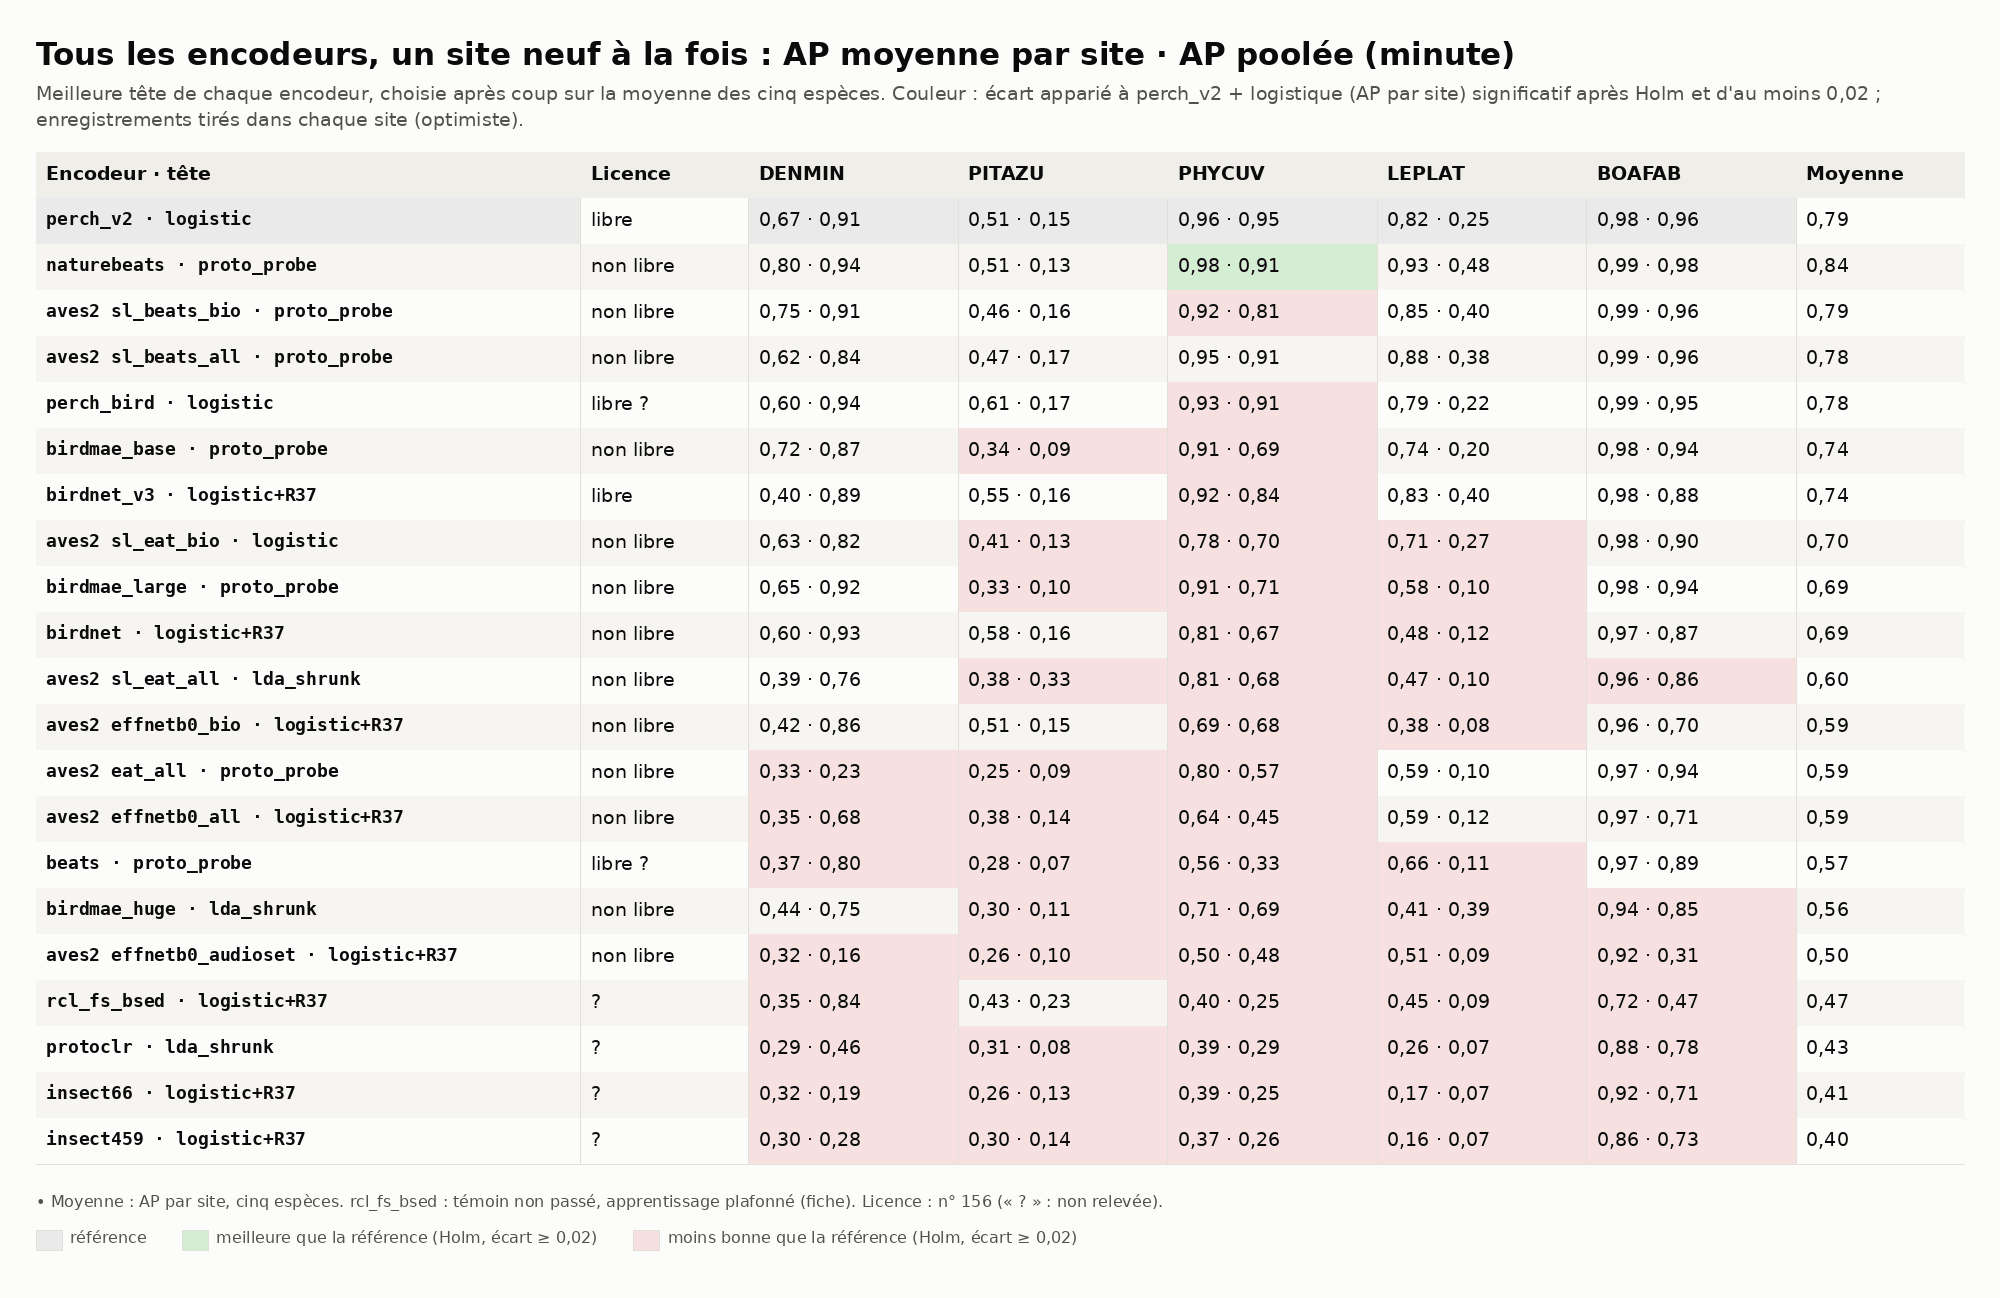
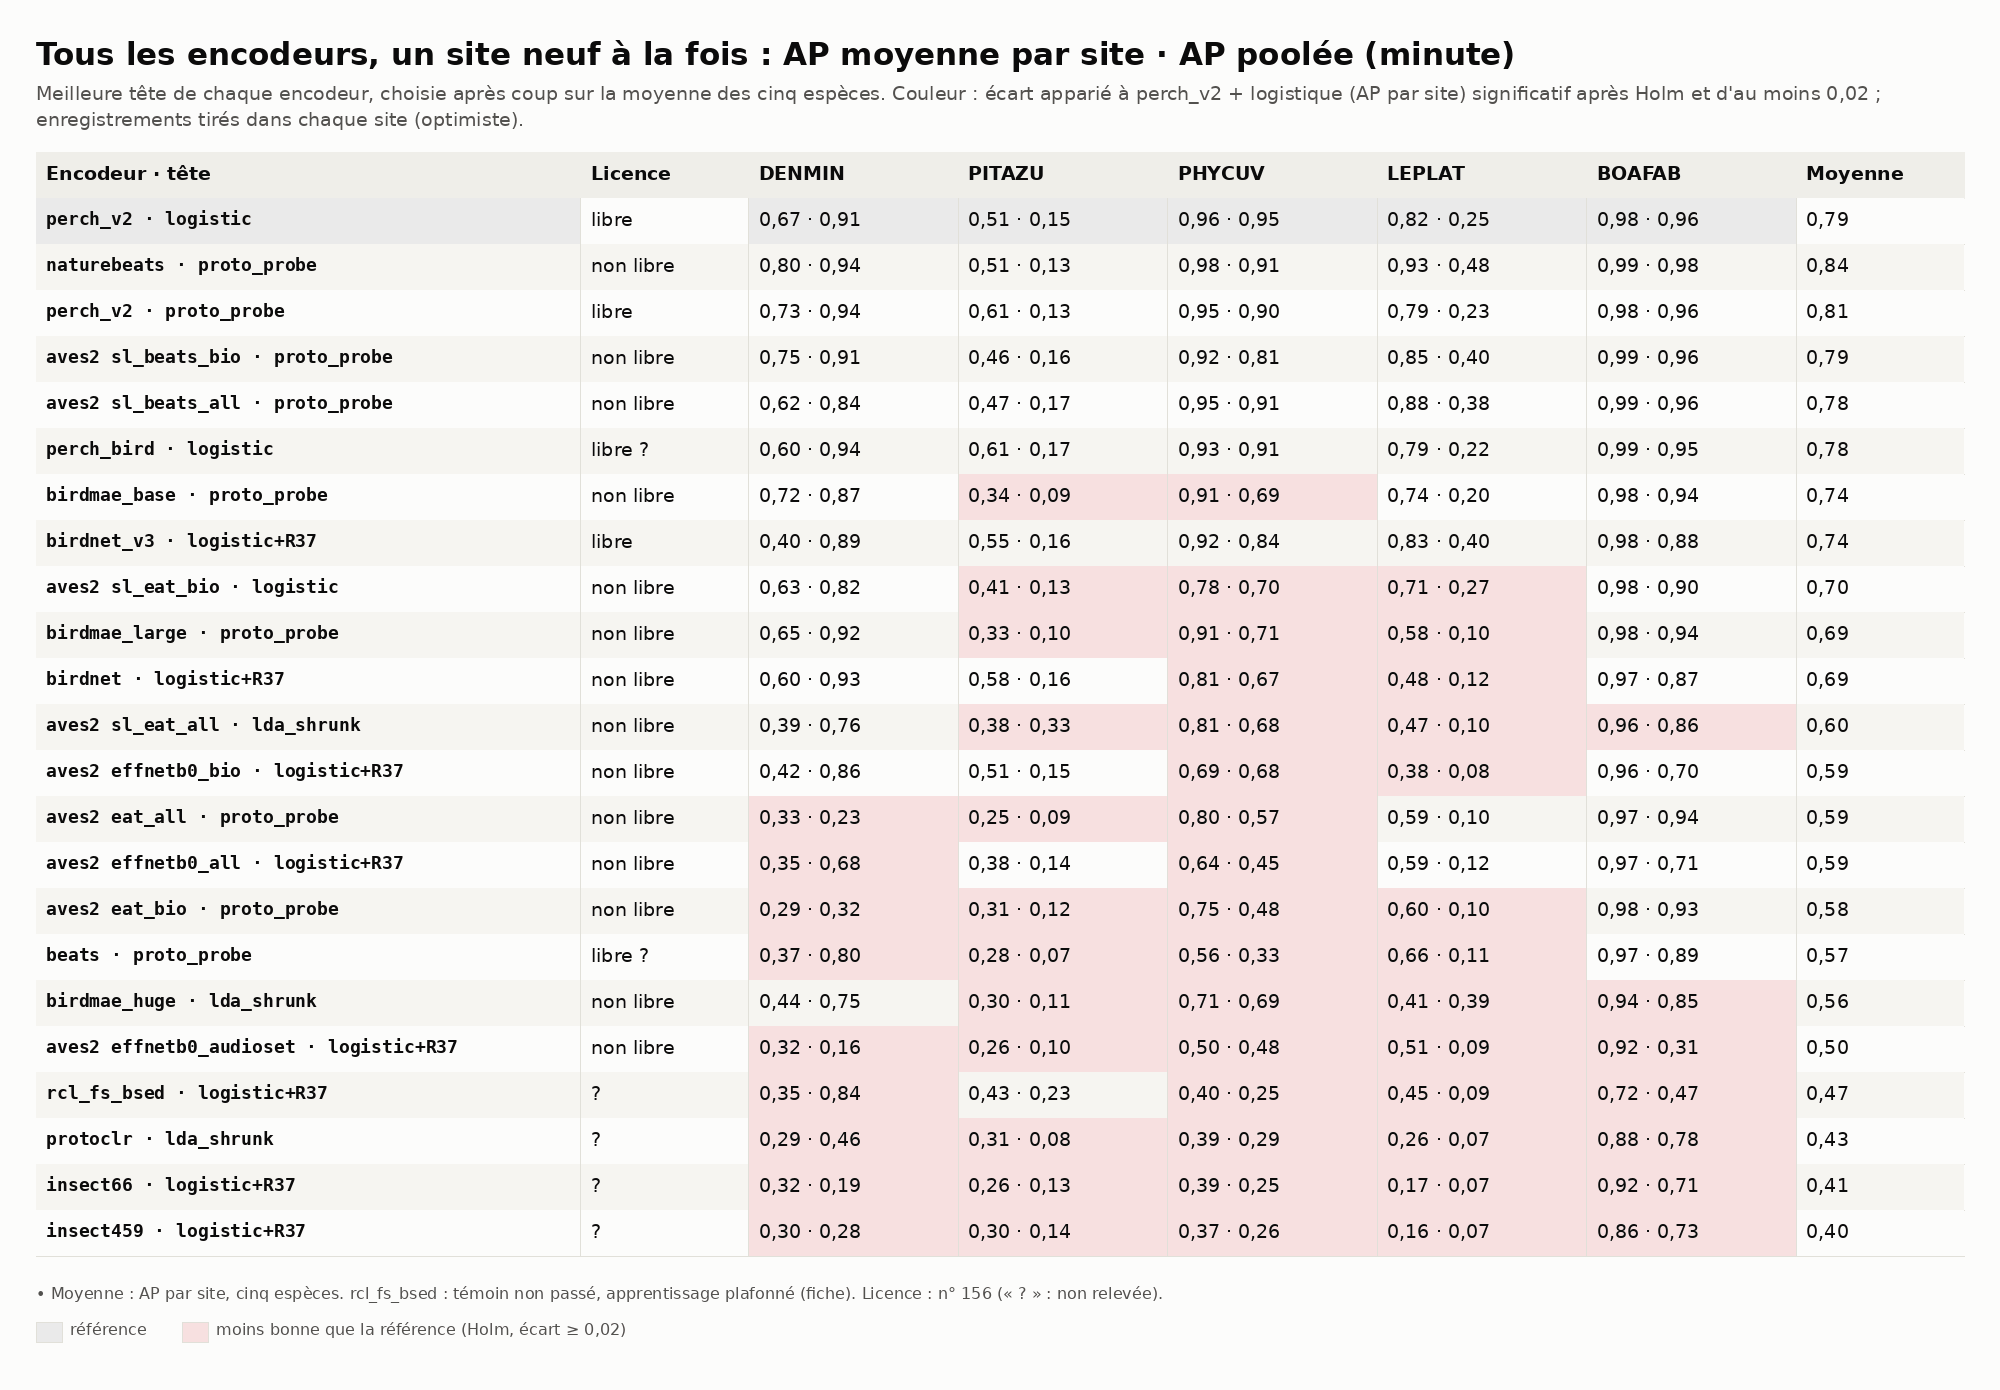
Benchmark 08 : 22 encodeurs sur AnuraSet, têtes adaptées, meilleur libre (n° 161)
perch_v2 réévalué sur ses jetons ; comparaison au meilleur libre (perch_v2 + sonde à
prototypes) : aucun non libre ne le bat après Holm. naturebeats + prototypes en tête (0,84),
sans écart significatif. Sessions 8 et 9 à relancer avant le 09/10.

Claude-Session: https://claude.ai/code/session_01LpMKH97A5PGbWLrhmp1euv

diff --git a/documentation/benchmarks/2026-09-30_anuraset_encodeurs/RAPPORT.md b/documentation/benchmarks/2026-09-30_anuraset_encodeurs/RAPPORT.md
@@ -12,18 +12,19 @@
   - aves2 sl_beats_bio : 0,79 ;
   - perch_bird : 0,78.
 
-  Après Holm, aucun encodeur ne bat la référence. Sans les deux sites presque vides, naturebeats
-  reste devant (0,88 contre 0,84 à 0,87).
+  Après Holm, aucun autre encodeur ne bat la référence. Sans les deux sites presque vides,
+  naturebeats reste devant (0,88 contre 0,84 à 0,87).
 - **La règle du n° 151 a tout changé** pour les transformers auto-supervisés. La sonde à
-  prototypes sur les jetons bat la logistique sur les cinq espèces pour 6 d'entre eux sur 7 :
-  Bird-MAE-Base passe de 0,51 à 0,74, naturebeats de 0,69 à 0,84. La sonde attentive n'aide
-  presque jamais.
+  prototypes sur les jetons bat la logistique sur les cinq espèces pour 7 des 10 transformers
+  (eat_all : 4 sur 5) : Bird-MAE-Base passe de 0,51 à 0,74, naturebeats de 0,69 à 0,84. Elle
+  n'aide pas les EAT affinés sur étiquettes (sl_eat), ni guère perch_v2 (2 espèces sur 5,
+  +0,03 en moyenne). La sonde attentive n'aide presque jamais.
 - **Meilleur libre** (n° 156) : perch_v2 + sonde à prototypes (0,81). Les deux meilleurs non
   libres, naturebeats et aves2 sl_beats_bio (licence non commerciale), ne le battent sur aucune
   espèce après Holm (`comparaisons_meilleur_libre.csv`).
 - **Site sans aucune annotation** (courbe d'amorçage, logistique) : perch_v2 est le meilleur
-  (0,81, contre 0,71 pour naturebeats). naturebeats ne le rejoint qu'à partir de 10
-  enregistrements annotés.
+  (0,81, contre 0,71 pour naturebeats). naturebeats ne le rejoint que vers 20 enregistrements
+  annotés.
 - **BirdNET 3 ne « pète pas tous les scores » ici.** Il obtient 0,74, mieux que BirdNET 2.4
   (0,69) sur les chants longs, mais sous perch_v2. Son classifieur, sans aucun entraînement,
   égale la logistique sur BOAFAB (0,99) et bat même la logistique de BirdNET 3 sur DENMIN.
@@ -71,8 +72,9 @@ Rouge : moins bonne que la référence (Holm, écart ≥ 0,02). Aucune case vert
 
 ![Tête adaptée](figures/2_tete_adaptee.png)
 
-*Figure 2 — De la logistique à la meilleure tête : les transformers auto-supervisés gagnent
-+0,09 à +0,23 ; les CNN supervisés, presque rien.*
+*Figure 2 — De la logistique à la meilleure tête : +0,09 à +0,23 pour les transformers
+auto-supervisés, +0,03 à +0,05 pour les BEATs affinés d'esp-aves2, presque rien pour les CNN
+supervisés.*
 
 ![Coût, qualité et licence](figures/3_cout_qualite_licence.png)
 
@@ -82,7 +84,16 @@ le temps réel ; naturebeats, 30 fois.*
 ![Courbe d'amorçage](figures/4_courbe_amorcage.png)
 
 *Figure 4 — Site neuf, k enregistrements positifs annotés (logistique seule : les têtes sur
-jetons ne sont pas dans la courbe). perch_v2 mène jusqu'à k = 5.*
+jetons ne sont pas dans la courbe). perch_v2 mène jusqu'à k = 10, naturebeats l'égale ensuite.*
+
+Contre le meilleur libre (perch_v2 + sonde à prototypes), écart d'AP moyenne par site
+(minute) ; aucun ne survit à Holm :
+
+| Non libre (meilleure tête) | DENMIN | PITAZU | PHYCUV | LEPLAT | BOAFAB |
+|---|---|---|---|---|---|
+| naturebeats · proto_probe | +0,07 | −0,10 | +0,03 | +0,14 | +0,00 |
+| aves2 sl_beats_bio · proto_probe | +0,01 | −0,15 | −0,03 | +0,06 | +0,01 |
+| aves2 sl_beats_all · proto_probe | −0,11 | −0,14 | −0,01 | +0,10 | +0,01 |
 
 Robustesse : sans les sites à moins de 10 minutes positives (DENMIN à INCT4, 2 ; PITAZU à
 INCT41, 9), l'ordre reste proche : naturebeats 0,88, perch_bird 0,87, aves2 sl_beats 0,85,
@@ -121,8 +132,8 @@ perch_v2 + prototypes 0,85 (en logistique, 0,84), birdnet_v3 0,83.
 ## 7. Limites
 
 - **Meilleure tête choisie après coup** parmi 3 à 7 têtes selon l'encodeur. Garde-fou : la sonde
-  à prototypes gagne sur les cinq espèces pour 6 transformers sur 7 ; ce n'est pas un gagnant de
-  hasard.
+  à prototypes gagne sur les cinq espèces pour 7 transformers sur 10 ; ce n'est pas un gagnant
+  de hasard.
 - **Têtes sur jetons en transfert seulement**, pas dans la courbe d'amorçage.
 - **Vague 2 incomplète** (sessions 8 et 9). rcl_fs_bsed : apprentissage plafonné à 60 000
   fenêtres et témoin non passé.

diff --git a/DECISIONS.md b/DECISIONS.md
@@ -1935,3 +1935,34 @@ décision, datée ; une décision remise en cause reçoit une nouvelle entrée, 
      compte au moins 30 enregistrements indépendants, et elles ne sont adoptées que si l'AP
      binaire progresse sur les points tenus à l'écart. À valider avec Élodie, Benoît (H21 : solo
      et chœur s'entendent-ils ?) et Sylvain.
+
+## 2026-09-30 — Benchmark 08 : 22 encodeurs sur AnuraSet, têtes adaptées
+
+161. **Pré-benchmark AnuraSet des encodeurs : indicateur.** Protocole 07 (un site tenu à
+     l'écart, toutes ses fenêtres jugées, minute commune), 22 encodeurs à cinq espèces
+     complètes, chacun avec les têtes sur embedding et, pour ceux qui ont des jetons, les têtes
+     sur jetons (n° 151, 152) ; perch_v2 réévalué sur ses jetons spatiaux (16 × 1 536) pour une
+     comparaison équitable. Rapport : `documentation/benchmarks/2026-09-30_anuraset_encodeurs/` ;
+     outils : `rassembler_08.py`, `apparie.py` (bootstrap apparié commun aux 07 et 08).
+     - AP moyenne par site (minute, meilleure tête, choisie après coup) : naturebeats + sonde à
+       prototypes 0,84 ; perch_v2 + sonde à prototypes 0,81 ; perch_v2 + logistique 0,79 ; aves2
+       sl_beats_bio 0,79 ; perch_bird 0,78 ; Bird-MAE-Base + prototypes 0,74 ; birdnet_v3 0,74.
+       Aucun autre encodeur ne bat perch_v2 + logistique après Holm (230 comparaisons).
+     - **Meilleur libre : perch_v2 + sonde à prototypes.** Aucun non libre ne le bat sur une
+       espèce après Holm (naturebeats : +0,14 sur LEPLAT, −0,10 sur PITAZU). Au sens strict du
+       n° 156, aucun non libre ne gagne sa place au benchmark ONF ; naturebeats et aves2
+       sl_beats_bio (sondes à prototypes), au même niveau, sont proposés à Élodie comme les
+       deux non libres possibles.
+     - La sonde à prototypes bat la logistique sur les cinq espèces pour 7 des 10 transformers
+       (Bird-MAE-Base 0,51 → 0,74, naturebeats 0,69 → 0,84) ; pas pour les EAT affinés sur
+       étiquettes, à peine pour perch_v2 (+0,03, 2 espèces sur 5). Elle rejoint les têtes de
+       référence. La sonde attentive n'aide presque jamais.
+     - Site sans annotation (courbe, logistique) : perch_v2 0,81, naturebeats 0,71 ; naturebeats
+       le rejoint vers 20 enregistrements annotés.
+     - birdnet_v3 : 0,74 (birdnet 2.4 : 0,69), sous perch_v2 ; son classifieur sans entraînement
+       égale la logistique sur BOAFAB (0,99). Insectes (0,40–0,41), rcl_fs_bsed (0,47, témoin
+       non passé) derniers ; EfficientNet AudioSet seul (0,50) sous la version bioacoustique
+       (0,59) ; bio ≈ all pour esp-aves2 ; Bird-MAE Base ≥ Large ≥ Huge.
+     - Manquent avant la clôture de la vague 2 (09/10, n° 156) : convnext_birdset,
+       audioprotopnet (session 8), avesecho_passt, biolingual (session 9), toutes deux arrêtées
+       sans rien pousser ; MetaPerch (poids non publiés).

diff --git a/documentation/benchmarks/LISEZMOI.md b/documentation/benchmarks/LISEZMOI.md
@@ -11,3 +11,4 @@ Chaque benchmark a son dossier et son rapport, sur le modèle de `MODELE_RAPPORT
 | 05 | `2026-09-29_anuraset_birdnet/` | têtes et régularisations, un site à la fois, AnuraSet, birdnet (+ amorçage) | indicateur |
 | 06 | `2026-09-29_anuraset_birdmae_huge/` | têtes et régularisations, un site à la fois, AnuraSet, birdmae_huge (+ amorçage) | indicateur |
 | 07 | `2026-09-29_anuraset_global/` | les six encodeurs côte à côte (minute, apparié) ; amorçage d'un site selon le nombre d'annotations | indicateur |
+| 08 | `2026-09-30_anuraset_encodeurs/` | 22 encodeurs, chacun avec la tête adaptée à sa sortie (jetons) ; meilleur libre et non libres (n° 156) | indicateur |
